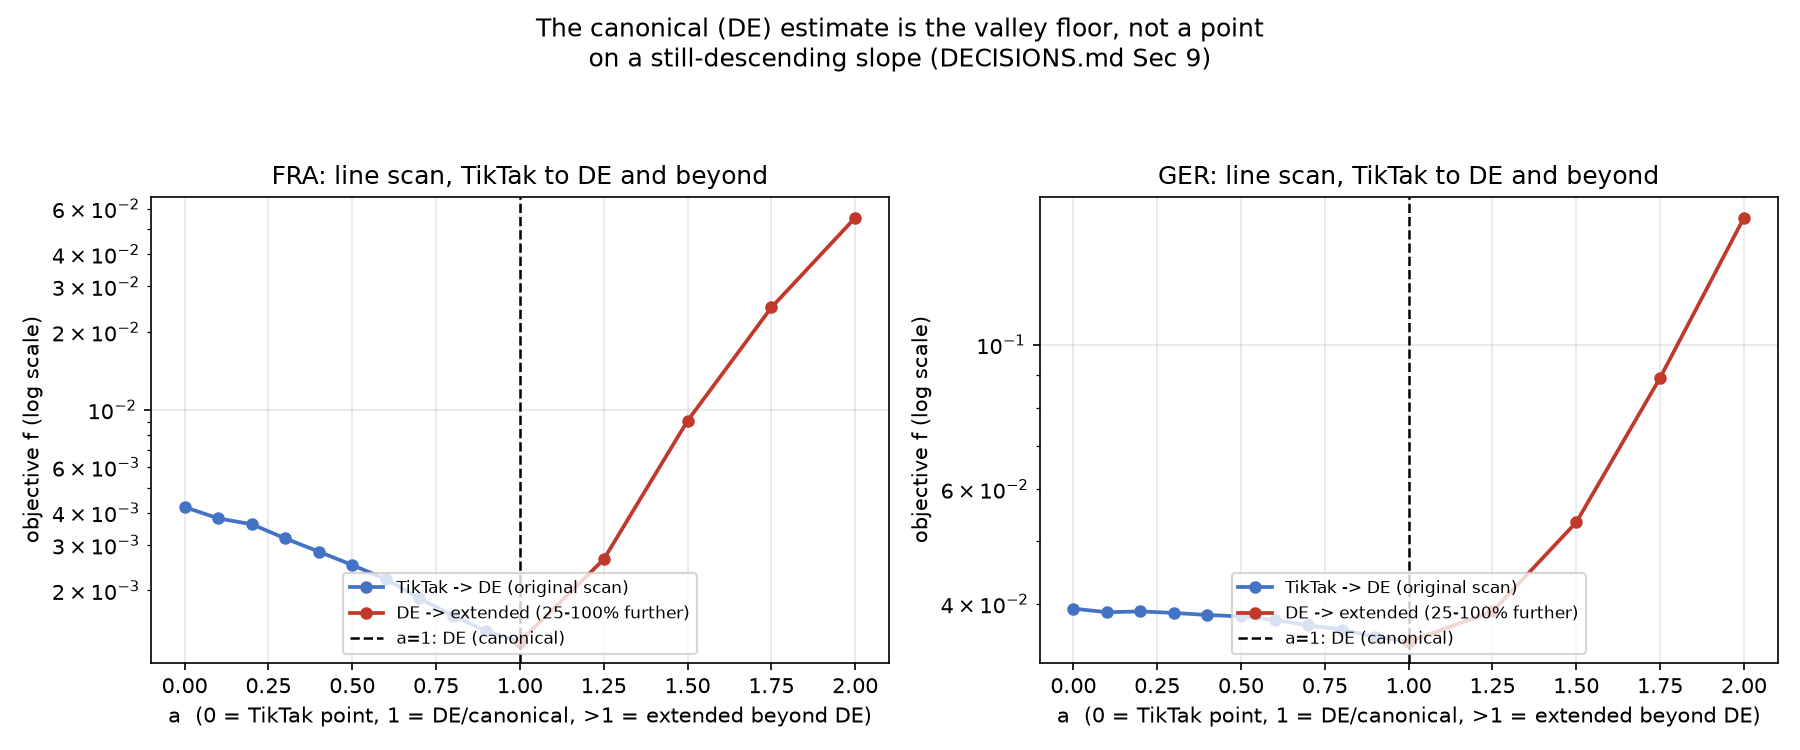
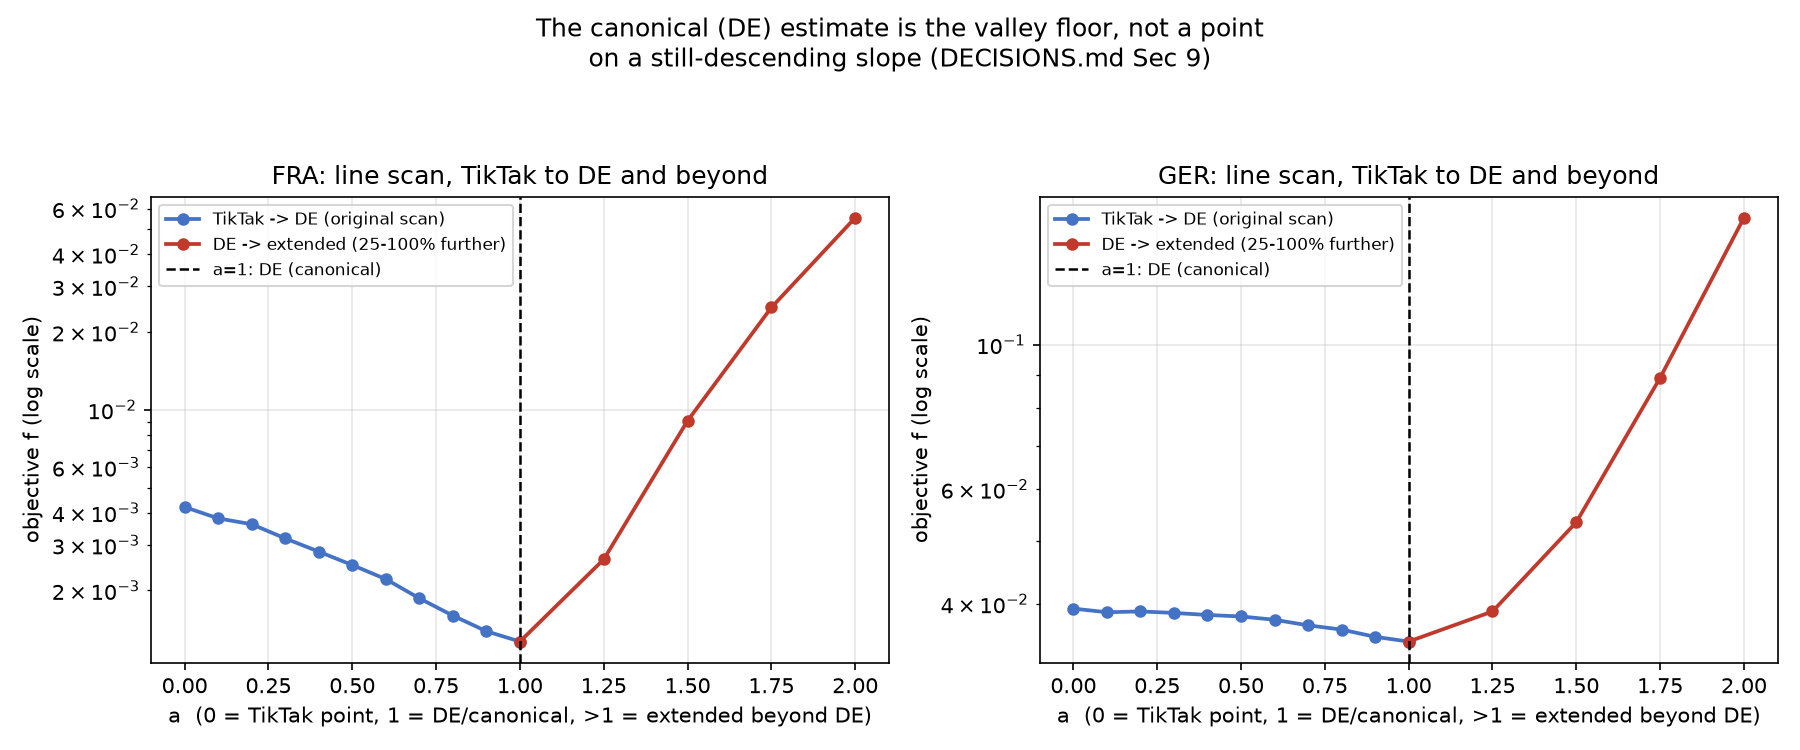
Fix line-scan legend overlap; correct Sec 23b's overstated "GER is indifferent to var2" framing with a quantified cost and a trend hypothesis
- plot_line_scan.py: legend was sitting on top of the a=1 (DE) point
  at the valley floor; moved to upper-left.
- plot_pol_var2_profile.py: GER's free-estimate OOS f was evaluated
  with a different (real-data) methodology (0.0022) than the profile
  points (0.00252, same 100k-worker/seed=987654 panel as every other
  point) -- fixed to the consistent number.
- Sec 23b: "no interior minimum" was wrongly read as "data
  indifferent to var2". Corrected: pinning at KMV's anchor (0.91)
  costs 14.0x in OOS fit (verified: 0.0354 vs the now-consistent
  0.00252) and misses var_log_earns by -14.7% -- a real, substantial,
  single-moment cost. The data clearly want var2 >= ~2.5 and higher;
  what's actually unidentified is only the ceiling, not the whole
  parameter. The GER pin is therefore a genuine modelling decision
  that trades away real fit for plausibility (Sec 8b), not a value
  the objective is indifferent to.
- Added a hypothesis, flagged as unverified: GER's raw var_log_earns
  rises 19% from 2001 to 2010 then flattens completely (checked
  directly in year_panel_ger.csv) -- a stationary jump-drift process
  has no way to represent a within-sample rise in dispersion except
  by inflating the persistent component toward a random walk, so a
  genuine 2000s German wage-inequality trend could be what's driving
  beta2 toward zero, rather than (or in addition to) a true
  near-permanent stochastic component. Candidate explanation for why
[…]

diff --git a/scripts/plot_pol_var2_profile.py b/scripts/plot_pol_var2_profile.py
@@ -64,7 +64,11 @@ ger_path = "output/ger_var2_profile_summary.json"
 if os.path.exists(ger_path):
     ger_summary = json.load(open(ger_path))
     ger_free_var2 = ger_summary["free_var2"]
-    ger_pts = [(ger_free_var2, 0.00220, "GER canonical (free)")]  # Sec 21
+    # OOS f for GER's free estimate, computed with the SAME methodology as
+    # every profile point (n_workers=100_000, seed=987654) -- corrected
+    # 2026-10-12, was previously a different (real-data, different panel)
+    # evaluation at 0.00220; the consistent number is 0.00252.
+    ger_pts = [(ger_free_var2, 0.0025192182680727334, "GER canonical (free)")]
     for v, r in ger_summary["profiles"].items():
         ger_pts.append((float(v), r["oos_f"], None))
     ger_pts.sort()

diff --git a/scripts/plot_line_scan.py b/scripts/plot_line_scan.py
@@ -33,7 +33,7 @@ for ax, cc in zip(axes, ["FRA", "GER"]):
     ax.set_xlabel("a  (0 = TikTak point, 1 = DE/canonical, >1 = extended beyond DE)")
     ax.set_ylabel("objective f (log scale)")
     ax.set_title(f"{cc}: line scan, TikTak to DE and beyond")
-    ax.legend(fontsize=8, loc="lower center")
+    ax.legend(fontsize=8, loc="upper left")
 
 fig.suptitle("The canonical (DE) estimate is the valley floor, not a point\n"
              "on a still-descending slope (DECISIONS.md Sec 9)")

diff --git a/DECISIONS.md b/DECISIONS.md
@@ -1800,20 +1800,73 @@ estimate sits at `var2 = 7.24`, far to the right of this grid). Result:
 
 **Monotonically decreasing across the entire tested range, with no interior
 minimum anywhere in `[0.3, 2.5]`** — a qualitatively different shape from
-Poland's clean V with a well-defined floor at `0.509` (§23a). The objective
-simply keeps improving as `var2` rises toward GER's own free-estimate value
-of `7.24`, exactly the signature of a weakly identified parameter: there is
-no point in this range where pushing `var2` higher starts to cost fit, so
-nothing in the profile itself pins down where `var2` "should" be — only the
-calibration-based argument for anchoring it at KMV's `0.9103` (§8b) does
-that work. `var2=0.91` reproduces the canonical GER pipeline's own OOS fit
-(`f ≈ 0.035`, STEP2_LOG/§8b) almost exactly despite warm-starting from the
-free estimate rather than KMV Table 3 — a useful independent cross-check
-that this profile script's methodology matches the main pipeline's.
+Poland's clean V with a well-defined floor at `0.509` (§23a). `var2=0.91`
+reproduces the canonical GER pipeline's own OOS fit (`f ≈ 0.035`,
+STEP2_LOG/§8b) almost exactly despite warm-starting from the free estimate
+rather than KMV Table 3 — a useful independent cross-check that this profile
+script's methodology matches the main pipeline's.
+
+**Correction (2026-10-12): "no interior minimum" does not mean the curve is
+flat or that the data are indifferent to `var2` — it is not, and they are
+not.** The original wording here overstated the parallel with a genuinely
+flat objective. Properly stated: **the data clearly reject low `var2`, and
+clearly want it high — they just never say "high enough, stop."**
+Quantified: pinning at KMV's own anchor (`var2=0.91`, the value actually
+used for GER's canonical estimate) costs **14.0× in OOS fit** relative to
+the free estimate evaluated on the identical panel (`f=0.0354` vs
+`f=0.00252`, consistently computed — the free-estimate number used for this
+ratio was itself corrected during this check, from an earlier
+inconsistent-methodology evaluation of `0.0022`), and misses `var_log_earns`
+by **−14.7%**. That is a real, substantial, single-moment-concentrated cost,
+not a rounding error. The data's preference keeps strengthening without
+leveling off all the way to the top of the tested grid (`var2=2.5`,
+`f=0.0038`, still 1.5× worse than free estimation) — i.e. **the data require
+`var2 ≳ 2.5`** to get anywhere near the best attainable fit, and the true
+optimum (the free estimate, `var2=7.24`) sits further out still. What is
+genuinely unidentified is only the **upper bound**: nothing in the data
+rules out `var2` continuing to rise indefinitely as `β₂ → 0`, because the
+objective keeps improving in that direction with no sign of turning around.
+A lower bound is well pinned; a ceiling is not.
+
+**Consequence: pinning `var2` at `0.9103` is a genuine modelling decision
+that trades away real fit for a believable long-run dispersion (§8b's
+calibration argument), not a value the SMM objective is indifferent to or
+that the data themselves suggest.** This should be stated plainly wherever
+the GER pin is defended — "the data don't care" and "we chose plausibility
+over an unidentified free parameter" are different claims, and only the
+second is accurate here.
+
+**A hypothesis for why the data push `var2` ever higher, worth investigating
+rather than asserting: a genuine trend in German earnings inequality over
+2001–2010, not (or not only) a stochastic near-random-walk component.**
+Checked directly: GER's raw `var(log annual earnings)` rises sharply and
+almost monotonically from `0.559` (2001) to `0.666` (2010) — a 19% increase
+over nine years — then flattens almost completely, `0.666` (2010) to
+`0.674` (2016) (`output/pl_diagnostics/year_panel_ger.csv`). A stationary
+jump-drift process has no way to represent a one-time, within-sample *rise*
+in cross-sectional dispersion other than by inflating the persistent
+component's ergodic variance — the stationary model's only lever for
+"dispersion keeps growing" is a component that barely mean-reverts, i.e.
+exactly the `β₂ → 0` pull this profile documents. If the true German data
+generating process is non-stationary over this window (plausibly linked to
+the well-documented rise in German wage inequality through the 2000s —
+labour-market reforms, declining collective-bargaining coverage, and
+low-wage-sector growth are the usual candidates in that literature, though
+not verified here) rather than a stationary near-permanent shock, this would
+be a textbook trend-mistaken-for-a-unit-root confound: the model absorbs a
+deterministic or slow-moving trend by pushing a stochastic component toward
+non-stationarity instead. **Not established here — a hypothesis for the
+supervisor conversation and, if pursued, a candidate explanation for why
+`β₂` resists identification specifically for Germany and not the other three
+countries**, none of which show a comparably sharp early-sample level trend
+(Poland's own `var_log` in fact *declines* over its sample, §18's diagnostics
+addendum).
 
 The combined PL-vs-GER picture (`output/pl_diagnostics/11_var2_profile.png`)
-makes the identification-strength contrast visible at a glance: Poland's
-curve has a floor; Germany's does not, in the range plotted.
+still makes the identification-strength contrast visible at a glance —
+Poland's curve has a floor in the range that matters; Germany's keeps
+falling — but the picture is "a real, one-sided pull with no ceiling," not
+"indifference."
 
 ---
 
